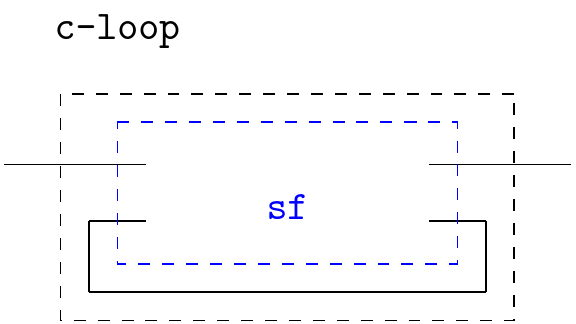
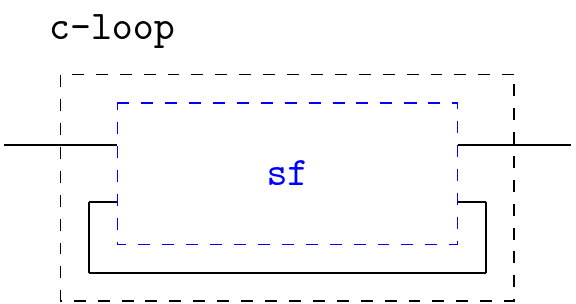
Important update: 1. Add c-loop-gen 2. Rewrite catalan, ode-1st and ode-2nd, using c-loop-gen 3. Rewrite fibonacci, solving recursive equations using circuits (clearer explanation) 4. Rewrite factorial (clearer explanation)

diff --git a/qi-circuit-examples/fibonacci.md b/qi-circuit-examples/fibonacci.md
@@ -1,40 +1,107 @@
 # Fibonacci
 
-From [Rutten Theorem 4.25 and Corollary 4.26](https://core.ac.uk/download/pdf/82555621.pdf)
+The generating function of Fibonacci sequence is $F = \frac{X}{1 - X - X^2}$. 
 
-> A stream $ρ ∈ R^ω$ is rational if and only if it is generated by a (finite) stream circuit.
+We can derive the recursive equation $F = X + F X + F X^2$ from the generating function.
 
-We know that the generating function of Fibonacci sequence is $\frac{X}{1 - X - X^2}$, which is rational. Thus its stream circuit is automatically:
-
-![image-20231218063508305](figures/image-20231218063508305.png)
-
-Similarly, we must translated it into an equivalent circuit.
-
-step-1
-
-![image-20231219042051296](figures/image-20231219042051296.png)
-
-step-2
-
-![image-20231219042218664](figures/image-20231219042218664.png)
-
-step-3
-
-![image-20231219042406285](figures/image-20231219042406285.png)
-
-step-4
-
-![image-20231219092304710](figures/image-20231219092304710.png)
+One way to solve the recursive equation is to use stream algorithms, i.e.
 
 ```
-(define-flow sf
-  (~>> (c-loop (~>> (== _ (c-reg 0))
+(define F (stream-cons 0 (stream-cons 1 (map + F (stream-rest F)))))
+(~>> (F) (stream-take _ 20) stream->list)
+;; '(0 1 1 2 3 5 8 13 21 34 55 89 144 233 377 610 987 1597 2584 4181)
+```
+
+However, the recursive equation can also be represented as circuits.
+
+For example,
+
+![image-20231220114409181](figures/image-20231220114409181.png)
+
+
+
+Note that there are many equivalent circuits for the same recursive equation; this is just one of them. i.e. $F = (X + F X) + F X^2$. 
+
+As follows are other possible implementations:
+
+$F = (X + F X^2) + F X$
+
+![image-20231220114828139](figures/image-20231220114828139.png)
+
+
+
+$F = (F X + F X^2) + X$
+
+![image-20231220114934377](figures/image-20231220114934377.png)
+
+
+
+$F = (1 + F X + F) X$
+
+![image-20231220115250428](figures/image-20231220115250428.png)
+
+
+
+$F = X + F (X + X^2)$
+
+![image-20231220115342196](figures/image-20231220115342196.png)
+
+
+
+All the above circuits can be implemented using qi-circuit. The last circuit requires only one loop, so it should be more efficient. 
+
+Its equivalent Qi-circuit is
+
+![image-20231220115612955](figures/image-20231220115612955.png)
+
+```
+(define fib
+  (~>> (one)
+       (c-reg 0)
+       (c-loop (~>> (== _ (~>> (-< (c-reg 0) (~>> (c-reg 0) (c-reg 0))) (c-add +)))
                     (c-add +)
-                    (c-loop (~>> (== _ (c-reg 0)) (c-add +) (-< _ _)))
-                    (c-reg 0)
                     (-< _ _)))))
 
-(define fib ((☯ sf) one)) 
 (probe (~>> (fib) (stream-take _ 20) stream->list))
 ;; '(0 1 1 2 3 5 8 13 21 34 55 89 144 233 377 610 987 1597 2584 4181)
 ```
+
+
+
+---
+
+Fibonacci can also be implemented by `c-loop-gen`.
+
+```
+(define fib
+  (~>> ()
+       (c-loop-gen (~>> (c-reg 0) (-< _ (c-reg 1)) (c-add +) (-< _ _)))
+       (c-reg 0)
+       ))
+
+(probe (~>> (fib) (stream-take _ 20) stream->list))
+;; '(0 1 1 2 3 5 8 13 21 34 55 89 144 233 377 610 987 1597 2584 4181)
+```
+
+This stream corresponds to the following circut.
+
+$F = (F + (FX + 1)) X$
+
+![image-20231220132518110](figures/image-20231220132518110.png)
+
+
+
+![image-20231220132553877](figures/image-20231220132553877.png)
+
+
+
+
+
+
+
+
+
+
+
+
+

diff --git a/qi-circuit-examples/ode-1st.md b/qi-circuit-examples/ode-1st.md
@@ -4,7 +4,7 @@
 
 ![image-20231218064717141](figures/image-20231218064717141.png)
 
-On the surface, this diagram looks very different from the previous (it has only outputs but no inputs), yet it still has an equivalent circuit that is compatible with Qi-circuit.
+Translate the diagram to an equivalent circuit.
 
 step-1
 
@@ -22,25 +22,21 @@ step-4
 
 ![image-20231218065327507](figures/image-20231218065327507.png)
 
-step-5
-
-![image-20231218065357143](figures/image-20231218065357143.png)
+The outer loop has only outputs but no inputs, so use `c-loop-gen` instead of `c-loop`.
 
 ```
 (define (solve f y0 dt)
-  (~>> (zero)
-       (c-loop (~>> (== _ (~>> (c-reg y0)
-                               (map f _)
-                               (c-mul dt)
-                               (c-loop (~>> (== _ (c-reg y0)) (c-add +) (-< _ _)))
-                               ))
-                    2>
-                    (-< _ _)))
+  (~>> ()
+       (c-loop-gen (~>> (c-reg y0)
+                        (map f _)
+                        (c-mul dt)
+                        (c-loop (~>> (== _ (c-reg y0)) (c-add +) (-< _ _)))
+                        (-< _ _)))
        (c-reg y0)
        ))
 ```
 
-Note that this example also shows that you cannot treat `integral` as an independent component, because `(c-reg y0)` must be on the leftmost side of `sf` in the `c-loop`. Artificially adding a `(c-reg y0)` would result in a non-equivalent circuit.
+Note that this example also shows that you cannot treat `integral` as an independent component, because `(c-reg y0)` must be on the leftmost side of `sf` in the `c-loop` or `c-loop-gen`. Artificially adding a wrong `(c-reg y0)` would result in a non-equivalent circuit.
 
-![image-20231218070317557](figures/image-20231218070317557.png) 
+![image-20231220070604975](figures/image-20231220070604975.png)
 

diff --git a/qi-circuit-examples/catalan.md b/qi-circuit-examples/catalan.md
@@ -2,18 +2,23 @@
 
 [Power series, power serious](https://www.cambridge.org/core/journals/journal-of-functional-programming/article/power-series-power-serious/19863F4EAACC33E1E01DE2A2114EC7DF) introduces Catalan numbers via solving the generating function equation $T = 1 + x T^2$.
 
-This equation can be transladted to the circuit.
+This equation can be translated to the circuit.
 
-![image-20231218090708479](figures/image-20231218090708479.png)
+![image-20231220060056292](figures/image-20231220060056292.png)
 
-The circuit is similar to the circuit of $\tau = \frac{1}{1 - 2 X} \sigma$ in [Rutten](https://core.ac.uk/download/pdf/82555621.pdf), but it uses convolution.
+step-1
+
+
+
+![image-20231220060156324](figures/image-20231220060156324.png)
 
 ```
-(define-flow sf-catalan
-  (~>> (c-loop (~>> (== _ (c-reg 0))
+(define catalan
+  (~>> (one)
+       (c-loop (~>> (== _ (c-reg 0))
                     (c-add +)
-                    (-< _ (~>> (-< _ _) c-convo))))))
-(define catalan ((☯ sf-catalan) one))
+                    (-< _ (~>> (-< _ _) c-convo))))
+       ))
 (probe (~>> (catalan) (stream-take _ 10) stream->list))
 ;; '(1 1 2 5 14 42 132 429 1430 4862)
 ```

diff --git a/qi-circuit-examples/ode-2nd.md b/qi-circuit-examples/ode-2nd.md
@@ -2,7 +2,7 @@
 
 [SICP 3.5.4 Exercise 3.78](https://web.mit.edu/6.001/6.037/sicp.pdf) introduces an signal-flow diagram for the solution to a second-order linear differential equation $\frac{d^2 y}{dt^2} - a \frac{dy}{dt} - by = 0$
 
-![image-20231218070710642](figures/image-20231218070710642.png)
+![image-20231220073403263](figures/image-20231220073403263.png)
 
 This diagram is more challenging than the previous ones, let’s derive it step by step.
 
@@ -22,8 +22,6 @@ step-4
 
 ![image-20231218071332719](figures/image-20231218071332719.png)
 
-
-
 The 3-ways claw has associative law.
 
 step-5
@@ -36,17 +34,13 @@ step-6
 
 step-7
 
-![image-20231218071727758](figures/image-20231218071727758.png)
+![image-20231220072840521](figures/image-20231220072840521.png)
 
 step-8
 
-![image-20231218071812388](figures/image-20231218071812388.png)
+![image-20231220072945946](figures/image-20231220072945946.png)
 
-step-9
-
-
-
-![image-20231218071854592](figures/image-20231218071854592.png)
+The outer loop has only outputs but no inputs, so use `c-loop-gen` instead of `c-loop`.
 
 ```
 (define (solve-2nd a b y0 dy0 dt)

diff --git a/qi-circuit-examples/factorial.md b/qi-circuit-examples/factorial.md
@@ -1,18 +1,17 @@
 # Factorial
 
-![image-20231218091355305](figures/image-20231218091355305.png)
-
-The circuit is similar to sf-4.17, but use multiplication
+![image-20231220064158437](figures/image-20231220064158437.png)
 
 ```
+;; factorial = product
+(define product (stream-cons 1 (map * product positives)))
+(~>> (product) (stream-take _ 10) stream->list)
+
 (define fact (~>> (positives)
-                  (c-loop (~>> (== _ (c-reg 1)) (c-add *)   (-< _ _)))
+                  (c-loop (~>> (== _ (c-reg 1)) (c-add *) (-< _ _)))
+                  (c-reg 1)
                   ))
 (probe (~>> (fact) (stream-take _ 10) stream->list))
 ;; '(1 2 6 24 120 720 5040 40320 362880 3628800)
-
-(define fact0 (~>> (fact) (c-reg 0)))
-(probe (~>> (fact0) (stream-take _ 10) stream->list))
-;; '(0 1 2 6 24 120 720 5040 40320 362880)
 ```
 

diff --git a/README.md b/README.md
@@ -11,7 +11,7 @@ are also referred to as signal flow graphs. Qi-circuit is a domain specific lang
 
 ## Core constructs
 
-A large circuit can be constructed by combining small circuits. Qi-circuit currently provides 5 types of basic circuits:
+A large circuit can be constructed by combining small circuits. Qi-circuit currently provides 6 basic circuits:
 
 - `(c-add op)` 
 
@@ -41,7 +41,9 @@ A large circuit can be constructed by combining small circuits. Qi-circuit curre
 
   <img src="image-20231218053014367.png" alt="image-20231218053014367" width="288" />
 
-  
+- `(c-loop-gen sf)` 
+
+  <img src="image-20231220133353173.png" alt="image-20231220133353173" width="274" />
 
 ## Behaviors
 
